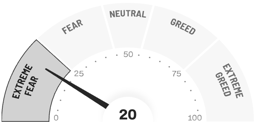
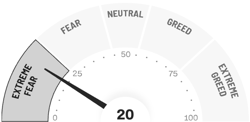
testing

diff --git a/lib/morf/morf.py b/lib/morf/morf.py
@@ -20,7 +20,7 @@ def process_image(input_path, output_path):
     grayscale_image = image.convert("L")
 
     # Resize to 255x122
-    resized_image = grayscale_image.resize((255, 122))
+    resized_image = grayscale_image.resize((250, 122))
 
     # Save the processed image
     resized_image.save(output_path)
